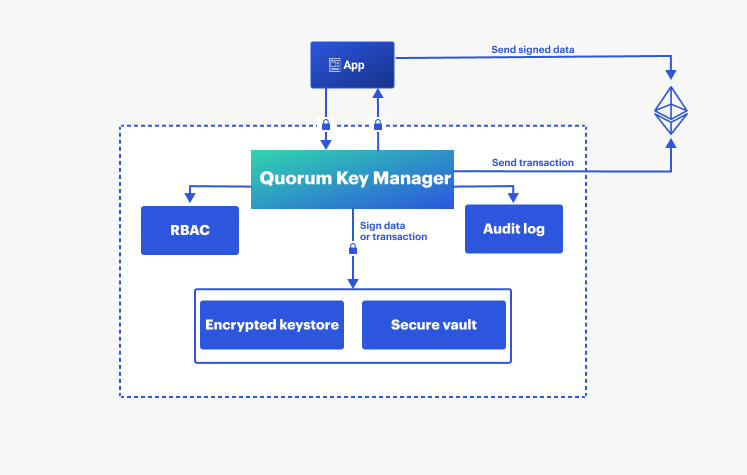
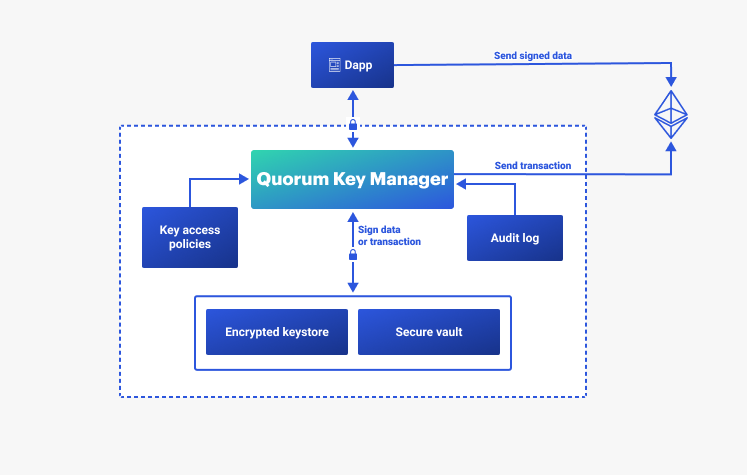
edit landing page and simplified diagram

diff --git a/docs/index.md b/docs/index.md
@@ -7,23 +7,24 @@ description: Quorum Key Manager
 
 ## What is Quorum Key Manager?
 
-Quorum Key Manager is an Ethereum account and key management service developed under the
-[BSL 1.1 license] and written in Go. Quorum Key Manager is a signing service that manages accounts
-and keys for the entire Quorum stack, and supports the following vaults:
+Quorum Key Manager is an Ethereum account and key management service developed under the [BSL 1.1 license] and written
+in Go.
+Quorum Key Manager is a signing service that manages accounts and keys for the entire Quorum stack, and supports the
+following vaults:
 
 - HashiCorp Vault
 - Azure Key Vault
-- AWS Key Management Service.
+- AWS Key Management Service
+- PKCS #11 compatible HSMs
 
 ![Architecture](Images/Simplified_Architecture.png)
 
 ## Why use Quorum Key Manager?
 
-Manage users private keys from a single API while having keys stored in a secure vault, or
-V3 keystores.
+Manage users' private keys from a single API while having keys stored in a secure vault, or V3 keystores.
 
-Manage a user's access rights using authentication and authorization, and audit the access history
-and signing requests for registered keys.
+Manage users' access rights using authentication and authorization, and audit the access history and signing requests
+for registered keys.
 
 Quorum Key Manager is compatible with GoQuorum, Hyperledger Besu, Codefi Orchestrate, and Tessera.
 
@@ -32,14 +33,14 @@ Quorum Key Manager is compatible with GoQuorum, Hyperledger Besu, Codefi Orchest
 ### Security
 
 - Supports JWT or OpenID for authentication.
-- Supports role-based access control (RBAC) for authorization.
-- Enterprise and cloud-based vault support.
+- Supports role-based access control (RBAC) over keys for authorization.
+- Supports enterprise and cloud-based vaults.
 
 ### Versatility
 
 - Supports public and private Ethereum networks.
 - Supports signing transactions and [typed data].
-- Supports signing using keys
+- Supports signing using keys.
 
 <!--links-->
 [BSL 1.1 license]: https://mariadb.com/bsl11/
